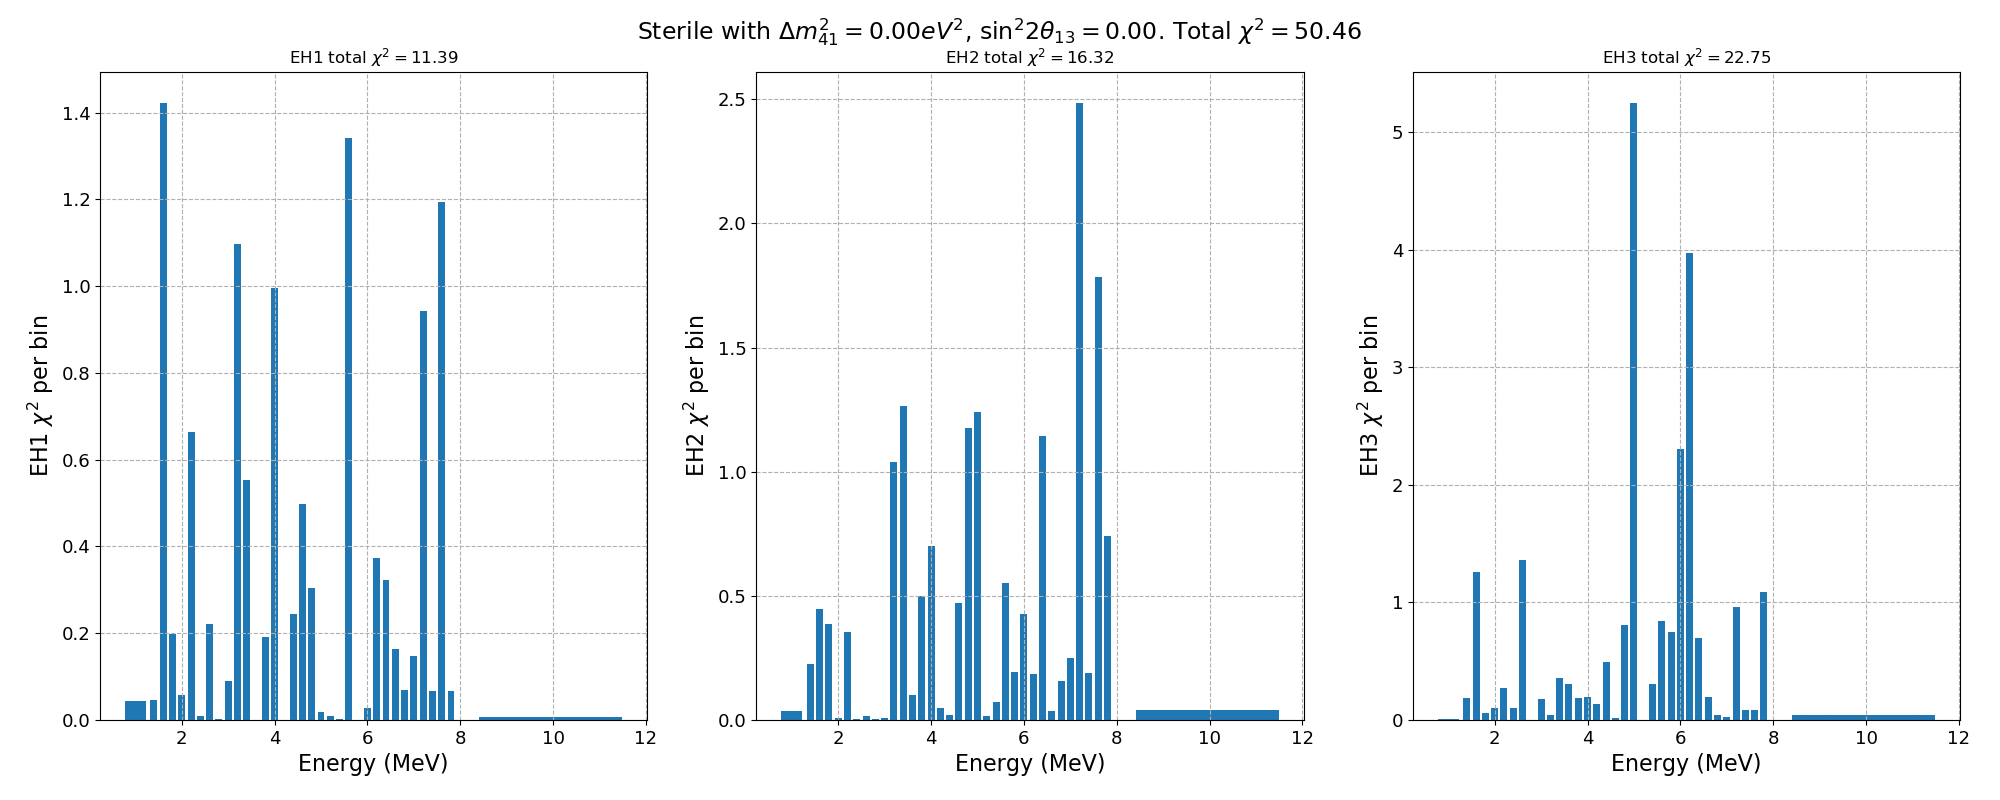
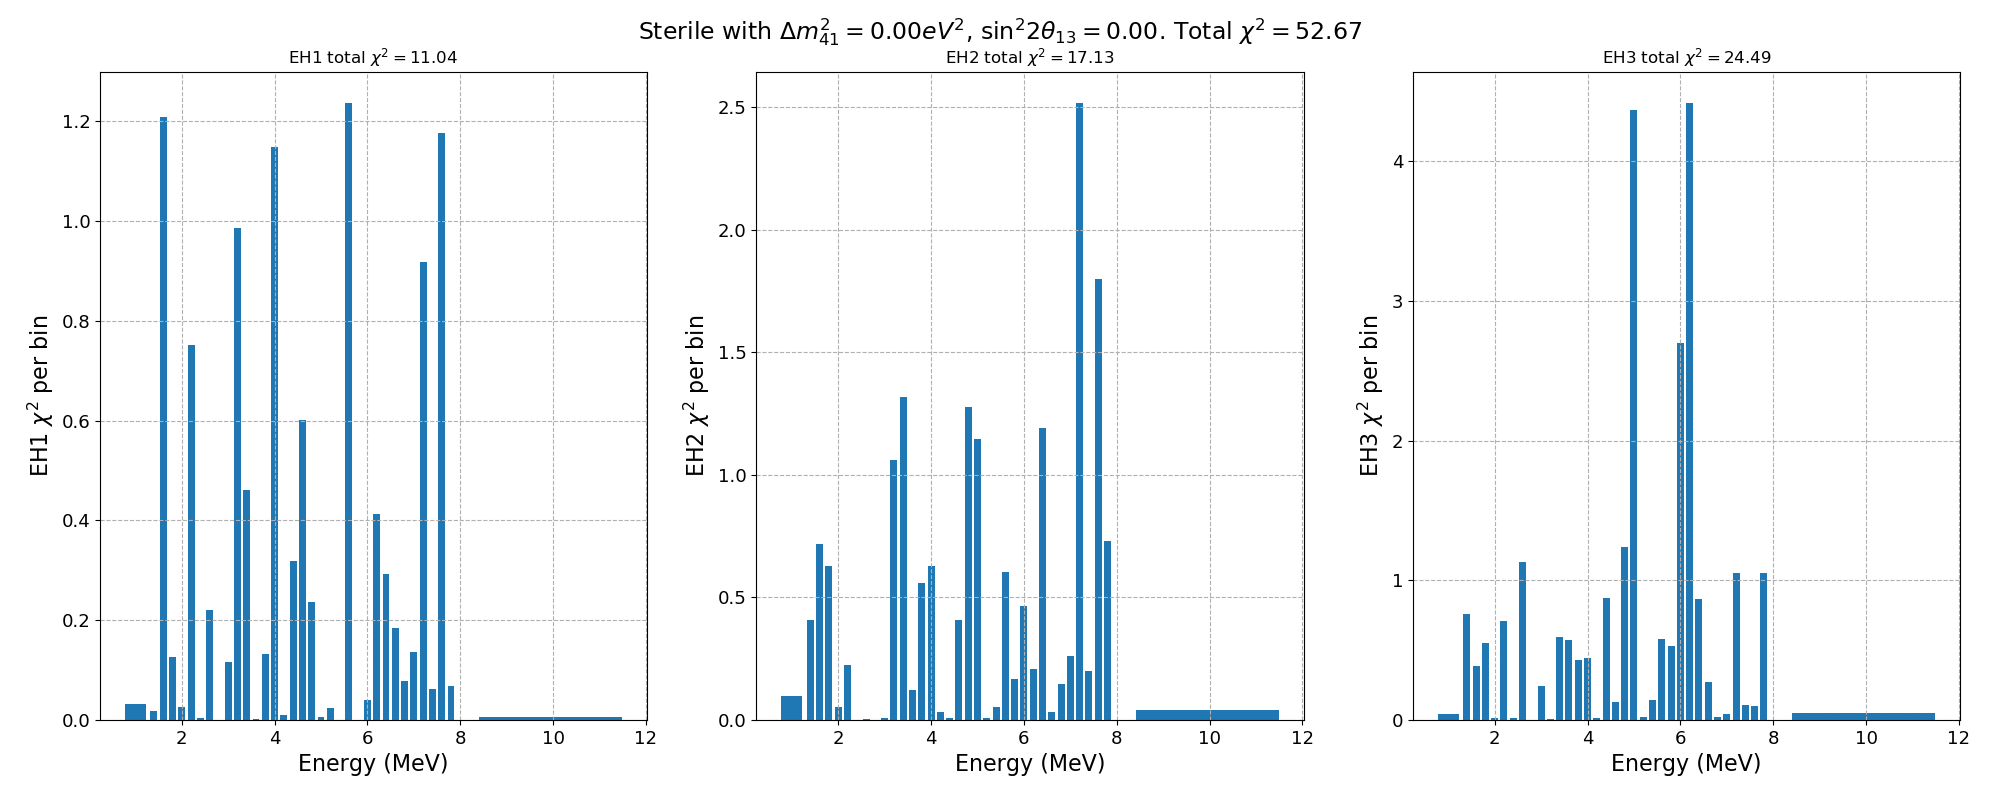
GlobalFit implemented. Needs to check for correctness.

diff --git a/GlobalFit/EventExpectationPlots.py b/GlobalFit/EventExpectationPlots.py
@@ -25,8 +25,8 @@ Model_osc = Models.PlaneWaveSM()
 Model_coh = Models.WavePacketSM()
 
 # Sterile parameters
-sin2 = 0.0
-dm2 = 0.0
+sin2 = 0.60
+dm2 = 0.5
 Model_ste = Models.PlaneWaveSterile(Sin22Th14 = sin2, DM2_41 = dm2)
 
 
@@ -51,18 +51,22 @@ def what_do_we_do(mass):
 wdwd = what_do_we_do(dm2)
 begin_time = time.time()
 predDB = fitter.get_expectation(Model_osc)
-pred = fitter.get_expectation(Model_ste,do_we_integrate_DB = wdwd['DB']['integrate'],do_we_average_DB = wdwd['DB']['average'],
-                                        do_we_integrate_NEOS = wdwd['NEOS']['integrate'],do_we_average_NEOS = wdwd['NEOS']['integrate'])
+all = fitter.get_expectation_ratio_and_chi2(Model_ste,integrate_DB = wdwd['DB']['integrate'],  average_DB = wdwd['DB']['average'],
+                                                    integrate_NEOS = wdwd['NEOS']['integrate'],average_NEOS = wdwd['NEOS']['integrate'])
 end_time = time.time()
 print(begin_time-end_time)
 
+pred = all[0]
 
 
-chi2_per_exp = []
-for exp in fitter.sets_names:
-    evex = pred[exp][:,0]
-    data = fitter.AllData[exp][:,0]
-    chi2_per_exp.append(np.sum(-2*(data-evex+data*np.log(evex/data))))
+# chi2_per_exp = []
+# for exp in fitter.sets_names[-1]:
+#     evex = pred[exp][:,0]
+#     data = fitter.AllData[exp][:,0]
+#     chi2_per_exp.append(np.sum(-2*(data-evex+data*np.log(evex/data))))
+
+chi2_per_exp = all[2]
+ratio = all[1]
 
 
 # -------------------------------------------------------
@@ -74,15 +78,15 @@ deltaE = dict([(set_name,(-fitter.DataLowerBinEdges[set_name]+fitter.DataUpperBi
 
 figev,axev = plt.subplots(1,4,figsize = (25,8),gridspec_kw=dict(left=0.05, right=0.98,bottom=0.1, top=0.91))
 
-axis = [[1.3,6.9,0.,3.5],[1.3,6.9,0.,3.],[1.3,6.9,0.,0.9],[1.3,6.9,0.,1.1]]
+axis = [[1.3,6.9,0.,3.5],[1.3,6.9,0.,3.],[1.3,6.9,0.,0.9],[1.3,6.9,0.,0.81]]
 norm = [1e5,1e5,1e5,1e5]
 
 
 for i in range(4):
     set = fitter.sets_names[i]
-    axev[i].errorbar(x_ax[set],pred[set][:,0]/deltaE[set]/norm[i], yerr = pred[set][:,1]/deltaE[set]/norm[i], xerr = 0.1, label = "Our prediction", fmt = "_", elinewidth = 2)
+    axev[i].errorbar(x_ax[set],pred[set]/deltaE[set]/norm[i], yerr = np.sqrt(pred[set])/deltaE[set]/norm[i], xerr = 0.1, label = "Our prediction", fmt = "_", elinewidth = 2)
     # axev[i].errorbar(x_ax,pred[fitter.sets_names[i]]/deltaE/norm[i], yerr = err[fitter.sets_names[i]]/deltaE/norm[i], xerr = 0.1, label = "Our prediction", fmt = "_", elinewidth = 2)
-    axev[i].scatter(x_ax[set],fitter.AllData[set][:,0]/deltaE[set]/norm[i], label = "{} data".format(fitter.sets_names[i]),color = "black")
+    axev[i].scatter(x_ax[set],fitter.ObservedData[set]/deltaE[set]/norm[i], label = "{} data".format(fitter.sets_names[i]),color = "black")
     # axev[i].scatter(x_ax,pred[1][DB_test.sets_names[i]][:,0]/deltaE/1.e5,marker="+",color = "blue", label = "Our no oscillations")
     # axev[i].scatter(x_ax,DB_test.AllData[DB_test.sets_names[i]][:,5]/deltaE/1.e5,marker="+",color = "red", label = "DB no oscillations")
     axev[i].set_xlabel("Energy (MeV)", fontsize = 16)
@@ -91,12 +95,12 @@ for i in range(4):
     axev[i].tick_params(axis='y', labelsize=13)
     axev[i].axis(axis[i])
     axev[i].grid(linestyle="--")
-    axev[i].title.set_text(fitter.sets_names[i])
+    axev[i].title.set_text(fitter.sets_names[i]+r' total $\chi^2 = %.2f $'%(chi2_per_exp[i]))
     axev[i].legend(loc="upper right",fontsize=16)
 
 # figev.suptitle(r'Our best fit: $\Delta m^2_{13} = 2.5·10^{-3} eV^2$, $\sin^2 2\theta_{13} = 0.07821$', fontsize = 17)
 # figev.suptitle(r'DB best fit: $\Delta m^2_{13} = 2.4·10^{-3} eV^2$, $\sin^2 2\theta_{13} = 0.0841$', fontsize = 17)
-figev.suptitle(r'Sterile with $\Delta m^2_{41} = %.2f eV^2$, $\sin^2 2\theta_{14} = %.2f$. Total $\chi^2 = %.2f$'%(dm2,sin2,np.sum(chi2_per_exp)), fontsize = 17)
+figev.suptitle(r'Sterile with $\Delta m^2_{41} = %.2f eV^2$, $\sin^2 2\theta_{14} = %.3f$. Total $\chi^2 = %.2f$'%(dm2,sin2,np.sum(chi2_per_exp)), fontsize = 17)
 figev.savefig("Figures/EventExpectation/EventExpectation_%.2f_%.3f_ste.png"%(dm2,sin2))
 # As we can see, both ways of computing the event expectations give the same result.
 
@@ -105,21 +109,24 @@ figev.savefig("Figures/EventExpectation/EventExpectation_%.2f_%.3f_ste.png"%(dm2
 # EVENT EXPECTATIONS RATIO, HEAVY STERILE VS SM
 # -----------------------------------------------
 
+# Note that this is not exactly what we're fitting.
+# Here the nuissances for the SM expectations are different than for the sterile expectations,
+# because they are built in different calls of get_expectation.
+# Therefore, the flux and total number of targets is not the same, which makes this ratio not rigorous.
 figev,axev = plt.subplots(1,4,figsize = (25,8),gridspec_kw=dict(left=0.05, right=0.98,bottom=0.1, top=0.91))
-
 
 for i in range(4):
     set = fitter.sets_names[i]
-    ste_dat = pred[fitter.sets_names[i]][:,0]
+    ste_dat = pred[fitter.sets_names[i]]
     SM_dat = predDB[fitter.sets_names[i]][:,0]
-    ste_err = pred[fitter.sets_names[i]][:,1]
-    SM_err = predDB[fitter.sets_names[i]][:,1]
+    ste_err = np.sqrt(ste_dat)
+    SM_err = np.sqrt(SM_dat)
     # ratio_err = ste_err/SM_dat + ste_dat*SM_err/SM_dat**2
     ratio_err = ste_err/SM_dat
     axev[i].errorbar(x_ax[set],ste_dat/SM_dat, yerr = ratio_err, xerr = 0.1, label = "Heavy sterile/SM", fmt = "_", elinewidth = 2)
     axev[i].plot(x_ax[set],np.ones([fitter.n_bins[set]]),linestyle = 'dashed')
     if set == 'NEOS':
-        axev[i].errorbar(x_ax[set],fitter.NEOSexp.RatioData['NEOS'][3:-1], yerr = fitter.NEOSexp.RatioError['NEOS'][3:-1], label = "NEOS data", fmt = "ok")
+        axev[i].errorbar(x_ax[set],fitter.NEOSRatioData, yerr = fitter.NEOSRatioStatError, label = "NEOS data", fmt = "ok")
     # axev[i].scatter(x_ax,DB_test.AllData[DB_test.sets_names[i]][:,5]/deltaE/1.e5,marker="+",color = "red", label = "DB no oscillations")
     axev[i].set_xlabel("Energy (MeV)", fontsize = 16)
     axev[i].set_ylabel("Ratio ste/DB", fontsize = 16)
@@ -127,26 +134,27 @@ for i in range(4):
     axev[i].tick_params(axis='y', labelsize=13)
     # axev[i].axis(axis[i])
     axev[i].grid(linestyle="--")
-    axev[i].title.set_text(fitter.sets_names[i])
+    axev[i].title.set_text(fitter.sets_names[i]+r' total $\chi^2 = %.2f $'%(chi2_per_exp[i]))
     axev[i].legend(loc="upper right",fontsize=16)
 
 # figev.suptitle(r'Our best fit: $\Delta m^2_{13} = 2.5·10^{-3} eV^2$, $\sin^2 2\theta_{13} = 0.07821$', fontsize = 17)
 # figev.suptitle(r'DB best fit: $\Delta m^2_{13} = 2.4·10^{-3} eV^2$, $\sin^2 2\theta_{13} = 0.0841$', fontsize = 17)
-figev.suptitle(r'Sterile with $\Delta m^2_{41} = %.2f eV^2$, $\sin^2 2\theta_{14} = %.2f$. Total $\chi^2 = %.2f$'%(dm2,sin2,np.sum(chi2_per_exp)), fontsize = 17)
+figev.suptitle(r'Sterile with $\Delta m^2_{41} = %.2f eV^2$, $\sin^2 2\theta_{14} = %.3f$. Total $\chi^2 = %.2f$'%(dm2,sin2,np.sum(chi2_per_exp)), fontsize = 17)
 figev.savefig("Figures/EventRatio/EventRatio_%.2f_%.3f_ste.png"%(dm2,sin2))
 
 # -----------------------------------------------------
 # ONLY NEOS
 
 figNEOS,axNEOS = plt.subplots(1,2,figsize = (14,8),gridspec_kw=dict(left=0.06, right=0.98,bottom=0.1, top=0.91))
-ste_dat = pred['NEOS'][:,0]
+ste_dat = pred['NEOS']
+ste_err = np.sqrt(ste_dat)
 SM_dat = predDB['NEOS'][:,0]
 
 set = 'NEOS'
-axNEOS[1].errorbar(x_ax[set],ste_dat/SM_dat, xerr = 0.05, label = "Our prediction w/out error", fmt = "_", elinewidth = 2.5)
-axNEOS[1].errorbar(x_ax[set],fitter.NEOSexp.RatioData['NEOS'][3:-1], yerr = fitter.NEOSexp.RatioError['NEOS'][3:-1], label = "NEOS data", fmt = "ok")
-axNEOS[0].errorbar(x_ax[set],ste_dat/SM_dat, yerr = ste_err/SM_dat, xerr = 0.05, label = "Our prediction w/error", fmt = "_", elinewidth = 2.5)
-axNEOS[0].errorbar(x_ax[set],fitter.NEOSexp.RatioData['NEOS'][3:-1], label = "NEOS data", fmt = "ok")
+axNEOS[1].errorbar(x_ax[set],ratio, xerr = 0.05, label = "Our prediction w/out error", fmt = "_", elinewidth = 2.5)
+axNEOS[1].errorbar(x_ax[set],fitter.NEOSRatioData, yerr = fitter.NEOSRatioStatError, label = "NEOS data", fmt = "ok")
+axNEOS[0].errorbar(x_ax[set],ratio, yerr = ste_err/SM_dat, xerr = 0.05, label = "Our prediction w/error", fmt = "_", elinewidth = 2.5)
+axNEOS[0].errorbar(x_ax[set],fitter.NEOSRatioData, label = "NEOS data", fmt = "ok")
 
 for i in range(2):
     axNEOS[i].set_xlabel("Energy (MeV)", fontsize = 16)
@@ -158,7 +166,7 @@ for i in range(2):
     axNEOS[i].legend(loc="lower left",fontsize=16)
     axNEOS[i].plot(x_ax[set],np.ones([fitter.n_bins[set]]),linestyle = 'dashed')
 
-figNEOS.suptitle(r'Sterile with $\Delta m^2_{41} = %.2f eV^2$, $\sin^2 2\theta_{13} = %.2f$. Total $\chi^2 = %.2f$'%(dm2,sin2,np.sum(chi2_per_exp)), fontsize = 17)
+figNEOS.suptitle(r'Sterile with $\Delta m^2_{41} = %.2f eV^2$, $\sin^2 2\theta_{14} = %.3f$. Total $\chi^2 = %.2f$'%(dm2,sin2,np.sum(chi2_per_exp)), fontsize = 17)
 figNEOS.savefig("Figures/NEOSRatio/NEOSRatio_%.2f_%.3f_ste.png"%(dm2,sin2))
 
 # ----------------------------------------------
@@ -171,8 +179,8 @@ axis = [[1.3,6.9,0.,1.5],[1.3,6.9,0.,2.],[1.3,6.9,0.,5.5],[1.3,6.9,0.,0.6]]
 figchi,axchi = plt.subplots(1,4,figsize = (25,8),gridspec_kw=dict(left=0.05, right=0.98,bottom=0.1, top=0.91))
 for i in range(4):
     set = fitter.sets_names[i]
-    data = fitter.AllData[fitter.sets_names[i]][:,0]
-    evex = pred[fitter.sets_names[i]][:,0]
+    data = fitter.ObservedData[fitter.sets_names[i]]
+    evex = pred[fitter.sets_names[i]]
     axchi[i].bar(x_ax[set],-2*(data-evex+data*np.log(evex/data)),width = 3/4*deltaE[set])
     # axev[i].scatter(x_ax,pred[1][DB_test.sets_names[i]][:,0]/deltaE/1.e5,marker="+",color = "blue", label = "Our no oscillations")
     # axev[i].scatter(x_ax,DB_test.AllData[DB_test.sets_names[i]][:,5]/deltaE/1.e5,marker="+",color = "red", label = "DB no oscillations")

diff --git a/GlobalFit/GlobalFit.py b/GlobalFit/GlobalFit.py
@@ -41,6 +41,10 @@ class GlobalFit:
         self.PredictedData = dict([(set_name,self.AllData[set_name][:,1]) for set_name in self.sets_names])
         self.PredictedBackground = dict([(set_name,self.AllData[set_name][:,2]) for set_name in self.sets_names])
 
+        self.NEOSRatioData = GFD.ratio_data['NEOS'][:,0]
+        self.NEOSRatioStatError = GFD.ratio_data['NEOS'][:,1]
+        self.NEOSRatioSystError = GFD.ratio_data['NEOS'][:,2]
+
         # These are the objects which allow to compute the event expectations for each experiment.
         self.DBexp = DB.DayaBay()
         self.NEOSexp = NEOS.Neos()
@@ -76,6 +80,7 @@ class GlobalFit:
         """
         obs_pred = self.DBexp.get_expectation_unnorm_nobkg(model,do_we_integrate = do_integral_DB,imin = 1,imax = self.n_bins['EH1']+1,do_we_average = do_average_DB)
         obs_pred.update(self.NEOSexp.get_expectation_unnorm_nobkg(model,do_we_integrate = do_integral_NEOS,custom_bins = self.DataAllBinEdges['NEOS'], do_we_average = do_average_NEOS))
+        # print(obs_pred)
         return obs_pred
 
     # def normalization_to_data(self,events):
@@ -172,7 +177,7 @@ class GlobalFit:
 
 
 # ----------------------------------------------------------
-# FITTING THE DATA
+# FITTING THE DATA WITH ONLY THE POISSON LIKELIHOOD. Not correct!
 # ----------------------------------------------------------
 
     def get_poisson_chi2(self,model,integrate_DB = False, integrate_NEOS = False,
@@ -204,7 +209,7 @@ class GlobalFit:
 # FITTING THE DATA WITH THE COVARIANCE MATRIX
 # ----------------------------------------------------------
 
-    def get_inverse_flux_covariance(self):
+    def get_inverse_covariance_matrix(self):
         """
         Returns the inverse of the neutrino covariance matrix, V^-1.
         The output is a dictionary with the different covariances matrices for every experiment.
@@ -215,43 +220,81 @@ class GlobalFit:
         return vinv
 
 
-    def get_resolution_matrix_underdim(self):
-        """
-        Returns an underdimension of the response matrix.
-        The output is a dictionary with the different response matrices for every experiment.
-        """
-        resmats = {}
-        for set_name in self.sets_names:
-            mat = np.zeros((len(self.NeutrinoLowerBinEdges[set_name]),self.n_bins[set_name]))
-            for i in range(0,self.n_bins[set_name]):
-                minrec = self.FindFineBinIndex(self.DataLowerBinEdges[set_name][i])
-                maxrec = self.FindFineBinIndex(self.DataUpperBinEdges[set_name][i])
-                for j in range(0,len(self.NeutrinoLowerBinEdges[set_name])):
-                    mintrue = self.FindFineBinIndex(self.NeutrinoLowerBinEdges[set_name][j])
-                    maxtrue = self.FindFineBinIndex(self.NeutrinoUpperBinEdges[set_name][j])
-                    mat[j,i] = np.mean(self.FromEtrueToErec[set_name][mintrue:maxtrue,minrec:maxrec])
-            resmats.update({set_name:mat})
-        return resmats
-
-
-
     def get_chi2(self,model, integrate_DB = False, integrate_NEOS = False,
+                             average_DB = False, average_NEOS = False,
+                             tupled = False):
+        """
+        Input: a  model with which to compute expectations.
+        Output: a chi2 statistic comparing data and expectations.
+        """
+        exp_events = self.get_predicted_obs(model,do_integral_DB = integrate_DB, do_integral_NEOS = integrate_NEOS,
+                                                  do_average_DB  = average_DB,   do_average_NEOS =  average_NEOS)
+        nuissances = self.get_nuissance_parameters(exp_events)
+        exp_events = dict([(set_name,exp_events[set_name]*nuissances[set_name]+self.PredictedBackground[set_name])
+                                   for set_name in self.sets_names])
+
+        Data = self.ObservedData
+
+        # For DB, the Poisson likelihood is sufficient.
+        TotalLogPoisson = 0.0
+        for set_name in self.sets_names[:-1]:
+            lamb = exp_events[set_name]
+            k = Data[set_name]
+            TotalLogPoisson += np.sum(k - lamb + k*np.log(lamb/k))
+
+        # For NEOS, we need to fit the ratio. Therefore, we need the expectation from SM.
+        # However, the nuissances must be the ones from the sterile expectation.
+        modelSM = Models.PlaneWaveSM()
+        exp_events_NEOSSM = self.NEOSexp.get_expectation_unnorm_nobkg(modelSM,
+                                    do_we_integrate = integrate_NEOS, do_we_average = average_NEOS,
+                                    custom_bins = self.DataAllBinEdges['NEOS'])
+        # The question here is: is it necessary to compute this previous events every time, or can we tabulate it?
+        exp_events_NEOSSM = exp_events_NEOSSM['NEOS']*nuissances['NEOS']+self.PredictedBackground['NEOS']
+
+        Vinv = self.get_inverse_covariance_matrix()['NEOS']
+        teo = exp_events['NEOS']/exp_events_NEOSSM
+        ratio = self.NEOSRatioData
+
+        chi2_ratio = (teo-ratio).dot(Vinv.dot(teo-ratio))
+        return -2*TotalLogPoisson+chi2_ratio
+
+
+# TO PLOT STUFF
+# ......................................
+
+    def get_expectation_ratio_and_chi2(self,model, integrate_DB = False, integrate_NEOS = False,
                              average_DB = False, average_NEOS = False):
         """
         Input: a  model with which to compute expectations.
         Output: a chi2 statistic comparing data and expectations.
         """
-        U = self.get_resolution_matrix_underdim()
-        Vinv = self.get_inverse_flux_covariance()
+        exp_events = self.get_predicted_obs(model,do_integral_DB = integrate_DB, do_integral_NEOS = integrate_NEOS,
+                                                  do_average_DB  = average_DB,   do_average_NEOS =  average_NEOS)
+        nuissances = self.get_nuissance_parameters(exp_events)
+        exp_events = dict([(set_name,exp_events[set_name]*nuissances[set_name]+self.PredictedBackground[set_name])
+                                   for set_name in self.sets_names])
 
-        Exp = self.get_expectation(model,do_we_integrate_DB = integrate_DB, do_we_integrate_NEOS = integrate_NEOS,
-                                         do_we_average_DB  =  average_DB,   do_we_average_NEOS =   average_NEOS)
         Data = self.ObservedData
-        chi2 = 0.
-        for set_name in self.sets_names:
-            exp_i = Exp[set_name][:,0]
-            dat_i = Data[set_name]
 
-            chi2 += (dat_i-exp_i).dot((U[set_name].transpose()).dot(Vinv[set_name].dot(U[set_name].dot(dat_i-exp_i))))
+        # For DB, the Poisson likelihood is sufficient.
+        AllChi2 = []
+        for set_name in self.sets_names[:-1]:
+            lamb = exp_events[set_name]
+            k = Data[set_name]
+            AllChi2.append(-2*np.sum(k - lamb + k*np.log(lamb/k)))
 
-        return chi2
+        # For NEOS, we need to fit the ratio. Therefore, we need the expectation from SM.
+        # However, the nuissances must be the ones from the sterile expectation.
+        modelSM = Models.PlaneWaveSM()
+        exp_events_NEOSSM = self.NEOSexp.get_expectation_unnorm_nobkg(modelSM,
+                                    do_we_integrate = integrate_NEOS, do_we_average = average_NEOS,
+                                    custom_bins = self.DataAllBinEdges['NEOS'])
+        # The question here is: is it necessary to compute this previous events every time, or can we tabulate it?
+        exp_events_NEOSSM = exp_events_NEOSSM['NEOS']*nuissances['NEOS']+self.PredictedBackground['NEOS']
+
+        Vinv = self.get_inverse_covariance_matrix()['NEOS']
+        teo = exp_events['NEOS']/exp_events_NEOSSM
+        ratio = self.NEOSRatioData
+
+        AllChi2.append((teo-ratio).dot(Vinv.dot(teo-ratio)))
+        return (exp_events,exp_events['NEOS']/exp_events_NEOSSM,AllChi2)

diff --git a/GlobalFit/GlobalFitData.py b/GlobalFit/GlobalFitData.py
@@ -78,12 +78,13 @@ dir = os.path.dirname(os.path.abspath(__file__))[:-10]
 dirDB = dir+"/DayaBay/Data/"
 dirNEOS = dir+"/NEOS/Data/"
 
-fudge = 180. # Total of days the NEOS detector was on. NEOS Data is the number of events, PER DAY.
+fudge = 180.-46. # Total of days the NEOS detector was on. NEOS Data is the number of events, PER DAY.
 all_data = {'EH1': np.concatenate((txt_to_array(dirDB+"DataEH1.dat")[1:29,3:5],txt_to_array(dirDB+"DataEH1.dat")[1:29,6:7]),axis=1),
             'EH2': np.concatenate((txt_to_array(dirDB+"DataEH2.dat")[1:29,3:5],txt_to_array(dirDB+"DataEH2.dat")[1:29,6:7]),axis=1),
             'EH3': np.concatenate((txt_to_array(dirDB+"DataEH3.dat")[1:29,3:5],txt_to_array(dirDB+"DataEH3.dat")[1:29,6:7]),axis=1),
-            'NEOS':fudge*txt_to_array(dirNEOS+'AllData.dat')[3:-2,0:3]}
+            'NEOS':fudge*np.concatenate((txt_to_array(dirNEOS+'AllData.dat')[3:-2,0:2],txt_to_array(dirNEOS+'AllData.dat')[3:-2,3:4]), axis = 1)}
 
+ratio_data = {'NEOS': txt_to_array(dirNEOS+'AllData.dat')[3:-2,4:]}
 
 # RECONSTRUCTION MATRIX
 # ---------------------
@@ -118,8 +119,16 @@ neutrino_upper_bin_edges = {'EH1': nuupperbin,
 # NEUTRINO COVARIANCE MATRIX
 # --------------------------
 
-
+# For more information in the covariance matrices from each experiment,
+# check the corresponding XXXXParameters.py files.
+# There are some inhomogeneities between the covariance matrices, which we most work through.
+# For example, the NEOS one is in prompt energy, and we must trim it to the GlobalFit number of bins.
+# In principle, the DB ones should not be used, we include them here for easier generalisation.
 neutrino_cov_mat = {'EH1': txt_to_array(dirDB+"NeutrinoCovMatrix.dat"),
                     'EH2': txt_to_array(dirDB+"NeutrinoCovMatrix.dat"),
                     'EH3': txt_to_array(dirDB+"NeutrinoCovMatrix.dat"),
-                    'NEOS': txt_to_array(dirNEOS+"NeutrinoCovMatrix.dat")}
+                    'NEOS': txt_to_array(dirNEOS+"NeutrinoCovMatrix.dat")[3:-1,3:-1]}
+
+# It is tricky to decide whether the NEOS covariance matrix, which contains the correlations
+# from the DayaBay spectrum which we are not using here.
+# However, for now we decide it is for the better to use it.
